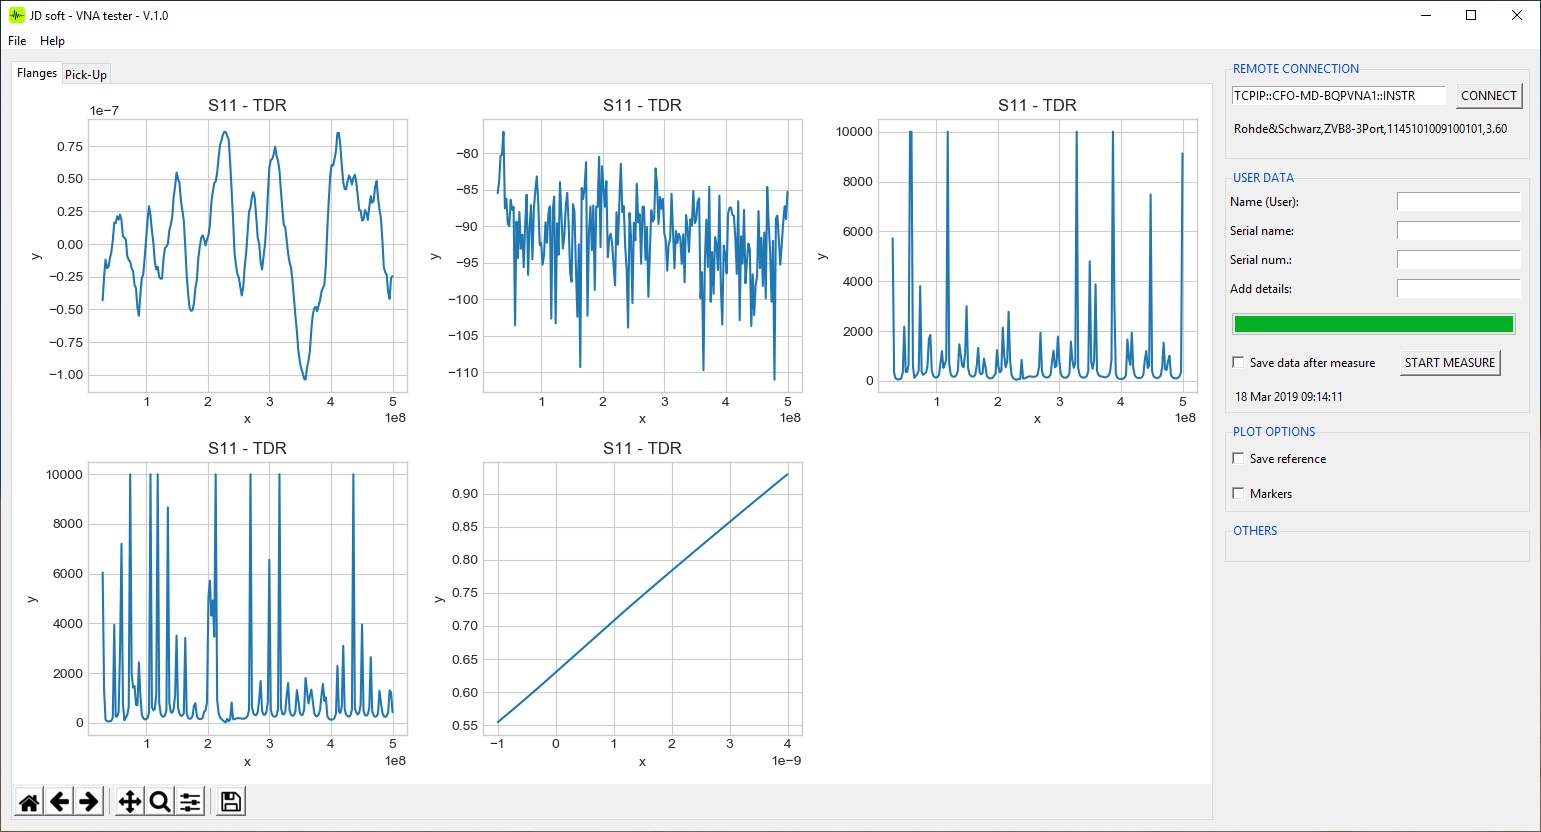
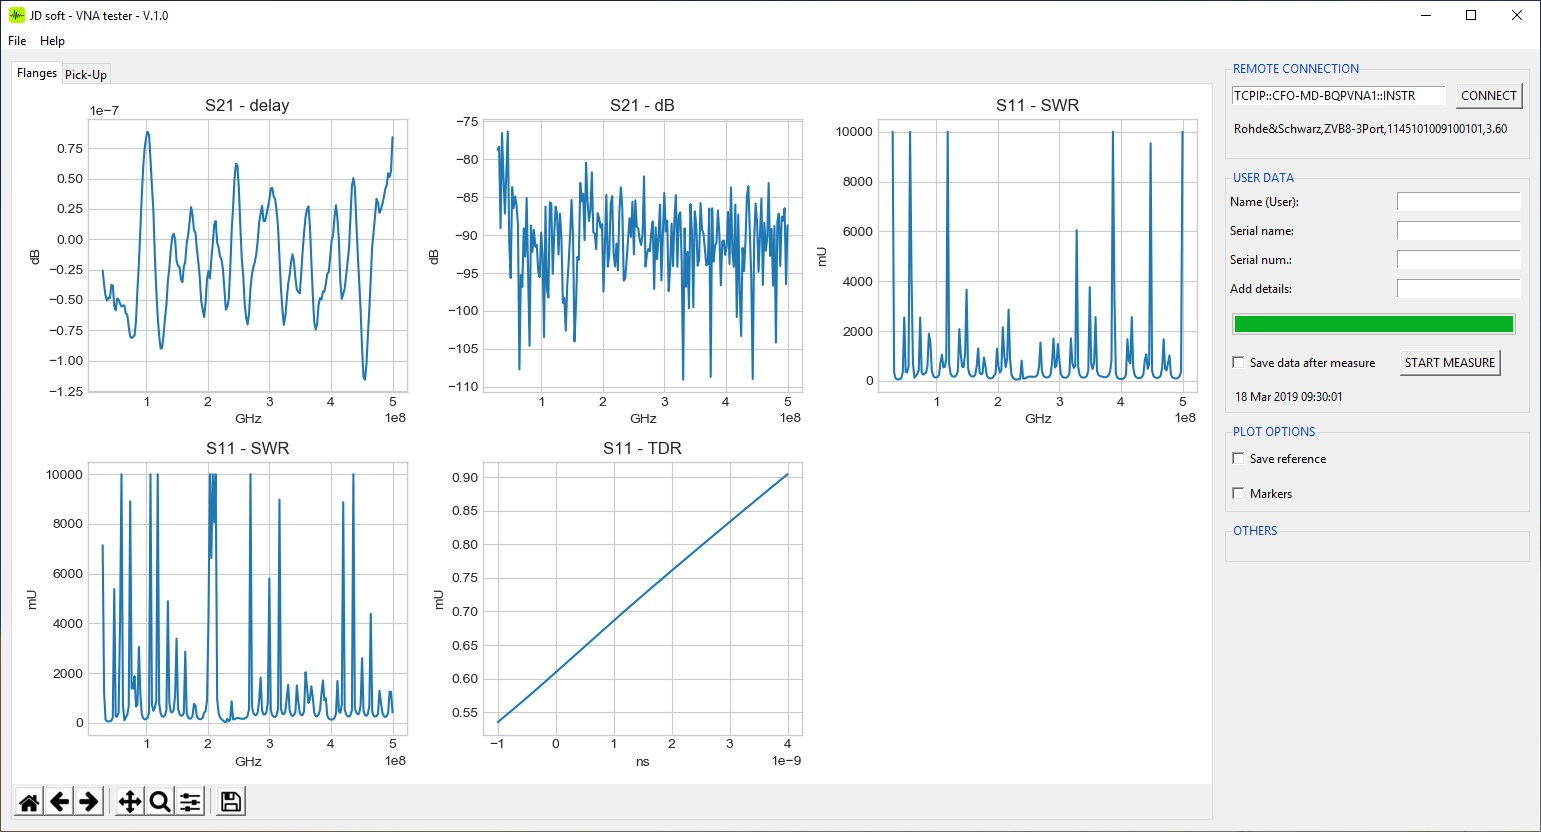
pic updated

diff --git a/src/gui_interface.py b/src/gui_interface.py
@@ -18,11 +18,11 @@ import matplotlib.pyplot as plt
 
 
 # plot list
-plot_names = [[['S11 - TDR', 'x', 'y'],
-               ['S11 - TDR', 'x', 'y'],
-               ['S11 - TDR', 'x', 'y'],
-               ['S11 - TDR', 'x', 'y'],
-               ['S11 - TDR', 'x', 'y']],
+plot_names = [[['S21 - delay', 'GHz', 'dB'],
+               ['S21 - dB', 'GHz', 'dB'],
+               ['S11 - SWR', 'GHz', 'mU'],
+               ['S11 - SWR', 'GHz', 'mU'],
+               ['S11 - TDR', 'ns', 'mU']],
 
               [['S11 - TDR', 'x', 'y'],
                ['S11 - TDR', 'x', 'y']]]
